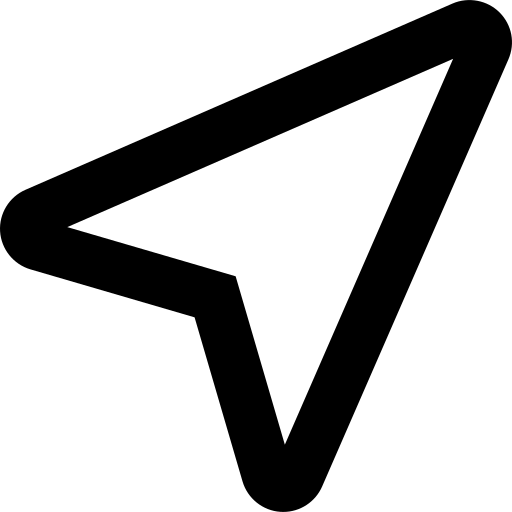
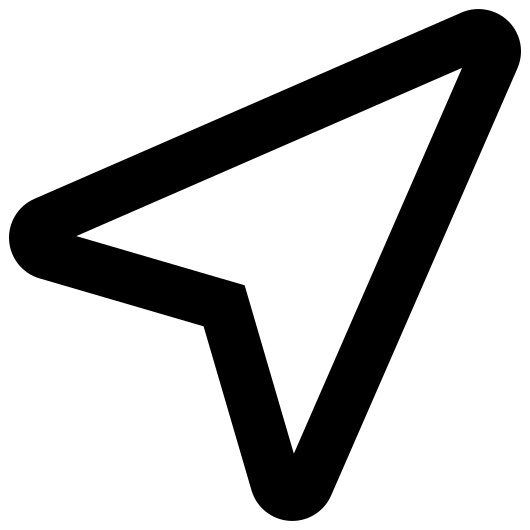
wip - funguje bez hdo

diff --git a/php-hdo/meteo.css b/php-hdo/meteo.css
@@ -7,18 +7,18 @@ table, th, td
 {
 color: #000000; 
 font-family: Verdana,Geneva,Kalimati,sans-serif; 
-font-size: 20pt; 
+font-size: 25pt; 
 width:800px;
 font-style: normal;
 text-align: center; 
 /* vertical-align: text-top;??? */
-border: 1px solid; 
-/*border: none;*/
+/*border: 1px solid;*/ 
+border: none;
 }
 
 td.maly
 {
-font-size: 10pt; 
+font-size: 15pt; 
 }
 
 td.stredni
@@ -28,5 +28,5 @@ font-size: 15pt;
 
 font.mensi
 {
- font-size: 18px;
+ font-size: 20px;
 }

diff --git a/php-hdo/index.php b/php-hdo/index.php
@@ -30,7 +30,11 @@ $meteo_content_arr = json_decode($meteo_content, true);
 <table>
 
 <tr>
-<td class="maly" style="text-align:right;" colspan=4>
+<td rowspan=3>
+<?php echo "<img src=\"img/weather/". $meteo_content_arr["weather"]["w_icon"] . ".svg\"  style=\"vertical-align:middle\" width=200>"; ?>
+</td>
+
+<td class="maly" style="text-align:right;" colspan=3>
 <?php
  $current_time = time();
  echo date('j M, H:i', $current_time);
@@ -40,19 +44,17 @@ $meteo_content_arr = json_decode($meteo_content, true);
 
 
 <tr>
-<td rowspan=2>
-<img src="img/weather/weather_icon_demo.png">
-</td>
 
-<td colspan=3 class="maly" style="text-align:right;vertical-align: middle;">
+
+<td colspan=3 class="maly" style="text-align:right;vertical-align: middle;" height=70>
 <?php 
 echo date('H:i', $meteo_content_arr["weather"]["sunrise"]);
 echo "&nbsp;&nbsp;";
 
 if (($current_time < $meteo_content_arr["weather"]["sunrise"]) or ($current_time > $meteo_content_arr["weather"]["sunset"])) 
-    echo "<img src=\"img/sun/sunrise.png\" width=30>";
+    echo "<img src=\"img/sun/sunrise.svg\" style=\"vertical-align:middle\" width=80>";
 else
-    echo "<img src=\"img/sun/sunset.png\" width=30>";
+    echo "<img src=\"img/sun/sunset.svg\" style=\"vertical-align:middle\" width=80>";
 
 echo "&nbsp;&nbsp;"; 
 echo date('H:i',$meteo_content_arr["weather"]["sunset"]);
@@ -64,13 +66,19 @@ echo date('H:i',$meteo_content_arr["weather"]["sunset"]);
 <tr>
 
 <td>
-<img src="img/cycle/cycle_ok.png"  width=50>
+<font class="mensi">
+<?php echo strtoupper(date('D')) . "&nbsp;&nbsp;<img src=\"img/cycle/cycle_". $meteo_content_arr["weather"]["clc_tdy"] . ".png\"  style=\"vertical-align:middle\" width=70>"; ?>
+</font>
 </td>
+
 <td>
-<img src="img/cycle/cycle_ok.png"  width=50>
+<font class="mensi">
+<?php echo strtoupper(date("D", strtotime("+1 day"))) . "&nbsp;&nbsp;<img src=\"img/cycle/cycle_". $meteo_content_arr["weather"]["clc_tmr"] . ".png\"  style=\"vertical-align:middle\" width=70>"; ?>
+</font>
 </td>
+
 <td>
-<img src="img/air_quality/air.png"  width=50>
+<img src="img/air_quality/air<?php echo $meteo_content_arr["weather"]["aqi"]; ?>.png"  width=70>
 </td>
 
 </tr>
@@ -84,13 +92,14 @@ echo date('H:i',$meteo_content_arr["weather"]["sunset"]);
 </font>
 </td>
 <td colspan=3 rowspan=3 style="color:#355E3b">
-&nbsp;+1h +2h <br>&nbsp;+4h +11h 
+&nbsp;+0h +0h <br>&nbsp;+0h +0h 
 </td>
 </tr>
 
 
 <tr>
 <td>
+
 <img src="img/temp_trend/<?php echo $meteo_content_arr["weather"]["temp_trend_icon"]; ?>.png"  style="vertical-align:middle" width=40> 
 <font class="mensi"><?php echo $meteo_content_arr["weather"]["temp_trend"] . "&degC";  ?></font>
 </td>
@@ -99,12 +108,16 @@ echo date('H:i',$meteo_content_arr["weather"]["sunset"]);
 
 <tr>
 <td>
-<img src="img/direction/compass-ne.png" width=25 heigth=25> 
+<img src="img/direction/compass-<?php echo strtolower ($meteo_content_arr["weather"]["wind_dir"]); ?>.png"  style="vertical-align:middle" width=30 height=30> 
 <font style="font-size: smaller;"><?php echo $meteo_content_arr["weather"]["wind_speed"] . "m/s";?></font>
 </td>
 
 </tr>
 
+<tr>
+<td colspan=4  height=5px>
+</td>
+</tr>
 
 <tr>
 <td class="maly" style="text-align:right;" colspan=4 bgcolor="#00316E" height=25px>
